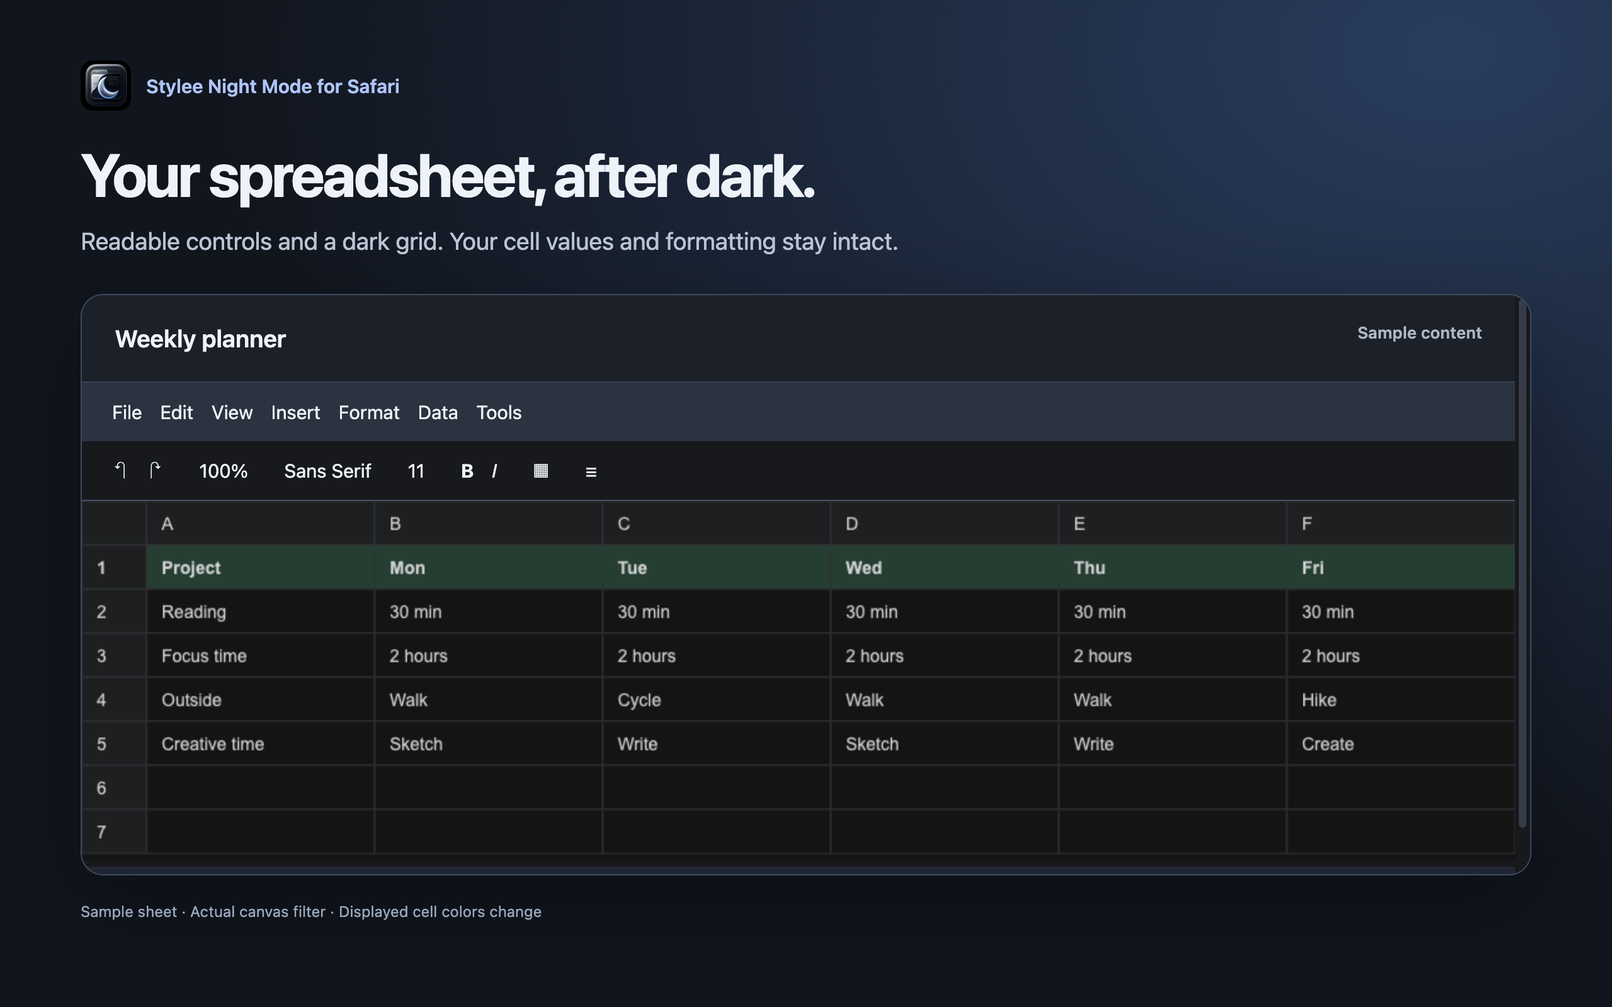
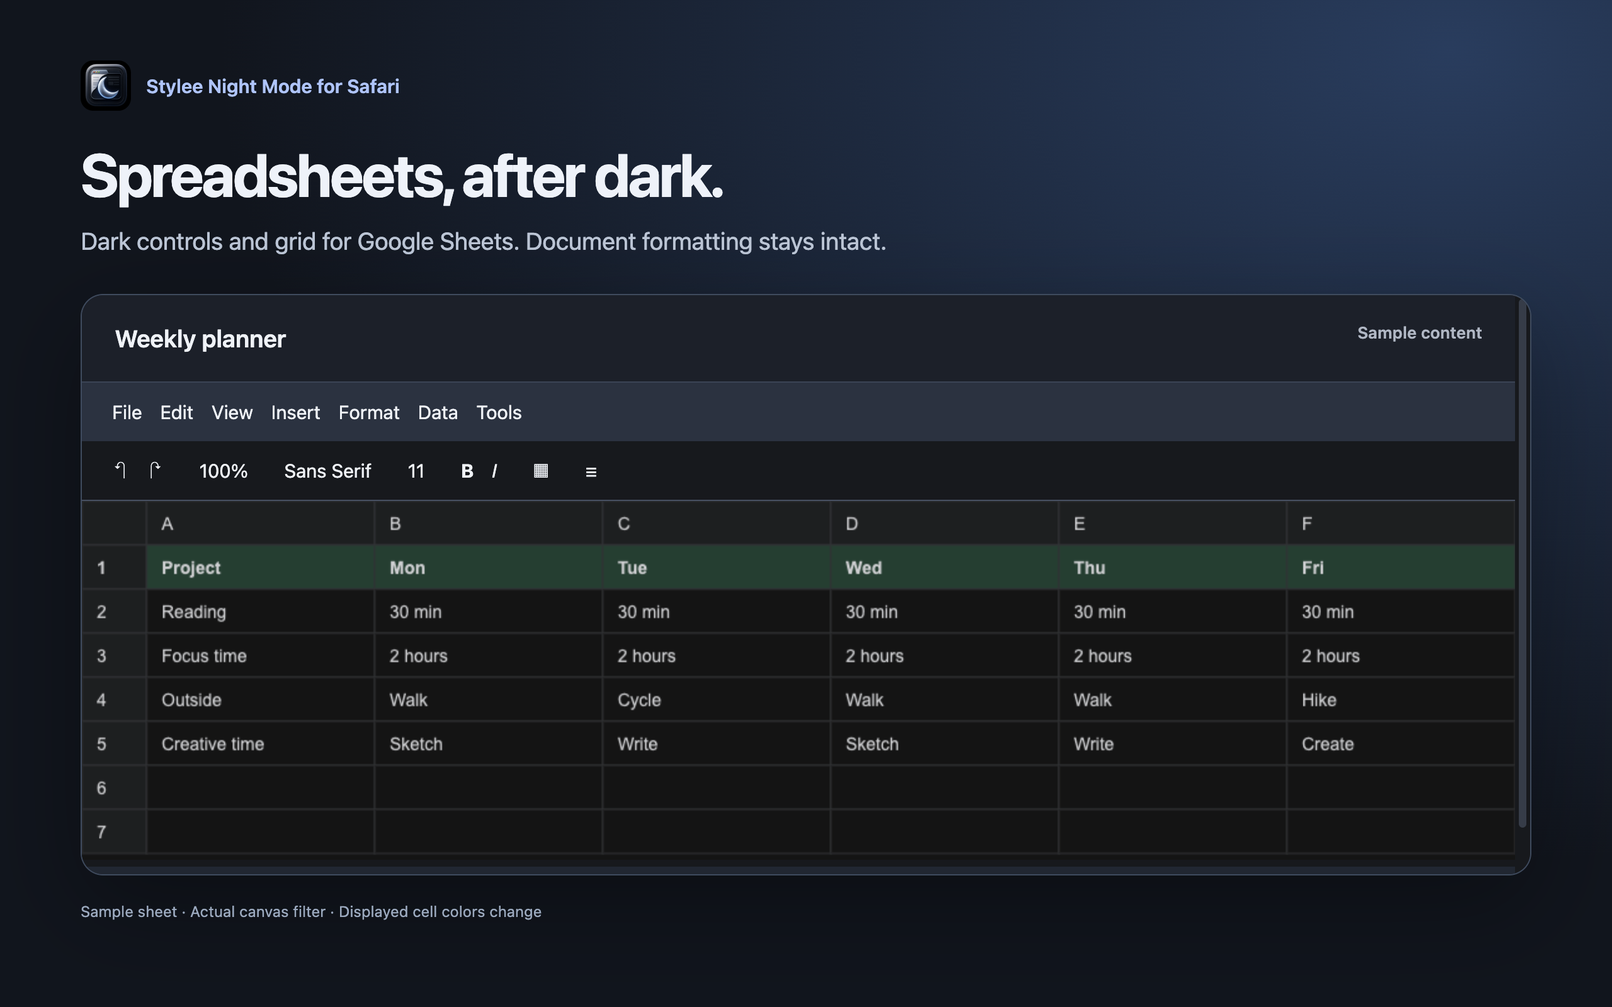
Align listing copy and assets with Stylee night mode positioning

Changed region(s): [[0.0312, 0.1562, 0.5625, 0.25]]

diff --git a/docs/store/preview.html b/docs/store/preview.html
@@ -2,28 +2,28 @@
 <style>*{box-sizing:border-box}body{margin:0;background:#10151e;color:#edf2fa;font-family:-apple-system,BlinkMacSystemFont,Arial,sans-serif}.page{padding:48px 64px;height:800px;background:radial-gradient(ellipse at 90% 5%,#233d60,transparent 60%)}.brand{display:flex;align-items:center;gap:12px;font-size:15px;font-weight:600;color:#a9c5ff}.brand img{width:40px;height:40px;border-radius:10px}h1{font-size:48px;line-height:1.1;letter-spacing:-1.8px;margin:24px 0 12px}p{color:#bac7d9;font-size:19px;line-height:1.5;margin:0}iframe{border:1px solid #3c4b60;border-radius:18px;width:100%;height:462px;margin-top:28px;background:#202733;box-shadow:0 25px 75px #0005}.caption{font-size:12px;color:#97a9c0;margin-top:16px}.split{display:grid;grid-template-columns:1fr 350px;gap:48px;align-items:center}.split iframe{height:500px;width:302px;justify-self:end}.split h1{font-size:60px}.bullet{margin-top:28px;font-size:20px;line-height:1.6;color:#c4d0e0}strong{color:#eff4fb}</style>
 <div class="page"><div class="brand"><img src="../../extension/icons/icon-128.png">Stylee Night Mode for Safari</div><div id="layout"><h1 id="headline"></h1><p id="subtitle"></p><iframe id="demo" title="Extension styling with sample content"></iframe><p class="caption" id="caption">Sample content · Rendered with the extension’s styles</p></div></div>
 <script>
-const view=new URLSearchParams(location.search).get('view')||'gmail';
+const view=new URLSearchParams(location.search).get('view')||'controls';
 const demo=document.querySelector('#demo');
 const header=(title)=>`<header style="padding:20px 26px;background:#1b202a;color:#eef2f7;border-bottom:1px solid #394456;font-size:19px;font-weight:600">${title}<span style="float:right;font-size:13px;color:#aeb7c5">Sample content</span></header>`;
 const doc=(css,body,script='')=>`<!doctype html><html data-sdm-product="${view==='sheets'?'sheets':'gmail'}"><base href="${new URL('../../extension/',location.href)}"><meta charset="utf-8"><link rel="stylesheet" href="base.css"><link rel="stylesheet" href="${css}.css"><style>*{box-sizing:border-box}body{margin:0;font:15px/1.5 -apple-system,BlinkMacSystemFont,Arial,sans-serif}button{font:inherit}a{color:#8ab4f8}</style>${body}<script>${script}<\/script></html>`;
 if(view==='gmail'){
- document.querySelector('#headline').textContent='A softer inbox. A clearer read.';
+ document.querySelector('#headline').textContent='A calmer inbox.';
  document.querySelector('#subtitle').textContent='Dark appearance across Gmail’s inbox, messages, and compose window.';
  const rows=[['Maya Chen','The weekend reading list','10:24 AM'],['Studio Notes','A new idea for your next project','9:10 AM'],['Alex Rivera','Coffee next week?','Yesterday'],['Team Updates','Your weekly roundup','Yesterday'],['Book Club','Our next chapter','Monday'],['Travel Notes','A little inspiration','Monday']].map((r,i)=>`<div class="zA" style="padding:19px 18px;border-bottom:1px solid #394456;display:grid;grid-template-columns:22px 100px 1fr 75px;gap:8px;font-size:13px"><span>☆</span><strong>${r[0]}</strong><span>${r[1]}</span><span style="font-size:11px">${r[2]}</span></div>`).join('');
  demo.srcdoc=doc('gmail',header('Inbox')+`<div style="display:grid;grid-template-columns:145px 48% 1fr;height:410px"><aside style="padding:24px 16px;background:#151922;color:#aeb7c5">✎ Compose<br><br><strong style="color:#eef2f7">Inbox</strong><br><br>Starred<br><br>Sent<br><br>Drafts<br><br>Labels<br><br>Reading</aside><section>${rows}</section><section style="padding:25px;border-left:1px solid #394456"><h3 style="margin-top:0">The weekend reading list</h3><p style="font-size:12px;color:#aeb7c5">Maya Chen · 10:24 AM</p><div class="a3s"><p>Hi Alex,</p><p>A few thoughtful reads for a slower weekend.</p><p>Start with the short essay on finding time for the things you enjoy.</p><p><a href="#">Open the reading list →</a></p><p>Enjoy your weekend,<br>Maya</p></div></section></div>`);
 } else if(view==='email'){
  document.querySelector('#headline').textContent='HTML emails, comfortably dark.';
- document.querySelector('#subtitle').textContent='Text and backgrounds adapt together. Your images keep their own colors.';
+ document.querySelector('#subtitle').textContent='Message colors adapt together. Photos keep their original appearance.';
  demo.srcdoc=doc('gmail',header('The Sunday Edit')+`<div class="a3s" style="padding:26px 54px;display:grid;grid-template-columns:1fr 1fr;gap:30px"><div style="background:#f8f6ee;color:#292f3c;border-radius:20px;padding:26px"><p style="letter-spacing:4px;font-size:12px">STUDIO NOTES</p><h2 style="font-size:34px;margin:14px 0">Make room for<br>a little inspiration.</h2><p>A collection of ideas for a more thoughtful week.</p><a style="display:inline-block;padding:10px 20px;border-radius:24px;background:#254c77;color:white" href="#">Read this week’s edit</a></div><div style="background:#fff;color:#202124;border-radius:20px;padding:26px"><h2>Three small things</h2><p>01 · Revisit a favorite book.</p><p>02 · Take the scenic route.</p><p>03 · Make something just for fun.</p><p style="color:#1255cc">See you next Sunday.</p></div></div>`);
  demo.onload=()=>{const s=demo.contentDocument.createElement('script');s.src='gmail-messages.js';s.onload=()=>demo.contentWindow.__safariDarkModeMessages.sync(true);demo.contentDocument.body.append(s)};
 } else if(view==='sheets'){
- document.querySelector('#headline').textContent='Your spreadsheet, after dark.';
- document.querySelector('#subtitle').textContent='Readable controls and a dark grid. Your cell values and formatting stay intact.';
+ document.querySelector('#headline').textContent='Spreadsheets, after dark.';
+ document.querySelector('#subtitle').textContent='Dark controls and grid for Google Sheets. Document formatting stays intact.';
  demo.srcdoc=doc('sheets',header('Weekly planner')+`<div style="padding:12px 24px;background:#293241;color:#eef2f7">File　Edit　View　Insert　Format　Data　Tools</div><div style="padding:12px 24px;border-bottom:1px solid #445064;color:#eef2f7">↶　↷　　100%　　Sans Serif　　11　　<b>B</b>　<i>I</i>　　▦　　≡</div><div class="grid-container"><div class="grid-table-container"><canvas id="grid" width="1150" height="285" style="width:100%;height:285px"></canvas></div></div><div style="background:#202733;padding:10px 24px;color:#a9c5ff">＋　　Weekly planner ▾　　 Notes ▾</div>`,`const c=document.querySelector('#grid'),x=c.getContext('2d');x.fillStyle='#fff';x.fillRect(0,0,1150,285);const rows=[['','A','B','C','D','E','F'],['1','Project','Mon','Tue','Wed','Thu','Fri'],['2','Reading','30 min','30 min','30 min','30 min','30 min'],['3','Focus time','2 hours','2 hours','2 hours','2 hours','2 hours'],['4','Outside','Walk','Cycle','Walk','Walk','Hike'],['5','Creative time','Sketch','Write','Sketch','Write','Create'],['6','','','','','',''],['7','','','','','','']];rows.forEach((r,ri)=>r.forEach((v,ci)=>{let w=ci?183:52,px=ci?52+(ci-1)*183:0,py=ri*35;x.fillStyle=ri===0||ci===0?'#f1f3f4':ri===1?'#b7ddcc':'#fff';x.fillRect(px,py,w,35);x.strokeStyle='#dadce0';x.strokeRect(px,py,w,35);x.fillStyle='#202124';x.font=(ri===1?'bold ':'')+'14px Arial';x.fillText(v,px+12,py+23)}));`);
  document.querySelector('#caption').textContent='Sample sheet · Actual canvas filter · Displayed cell colors change';
 } else {
  document.querySelector('#layout').className='split';
- document.querySelector('#layout').innerHTML='<div><h1>Your choice.<br>One click.</h1><p>A separate appearance setting for each supported Google product.</p><div class="bullet"><strong>On</strong> · Always dark<br><strong>Off</strong> · Website default<br><strong>System</strong> · Follow device</div><p class="caption">Actual toolbar controls · Preferences stay on your Mac</p></div><iframe id="popup" title="Appearance controls"></iframe>';
+ document.querySelector('#layout').innerHTML='<div><h1>Night mode.<br>Your way.</h1><p>Dark appearance for Gmail, Google Sheets, and Google Search. A separate choice for each website.</p><div class="bullet"><strong>On</strong> · Always dark<br><strong>Off</strong> · Website default<br><strong>System</strong> · Follow device</div><p class="caption">Actual toolbar controls · Preferences stay on your Mac</p></div><iframe id="popup" title="Appearance controls"></iframe>';
  fetch('../../extension/popup/popup.html').then(r=>r.text()).then(html=>{html=html.replace('<head>','<head><base href="'+new URL('../../extension/popup/',location.href)+'">');const mock=`<script>window.browser={runtime:{},tabs:{query:(o,c)=>c([{id:1,url:'https://mail.google.com/'}]),sendMessage:(i,m,o,c)=>c({product:'gmail',mode:'system'})},storage:{local:{get:(k,c)=>c({enabledBySite:{gmail:'system'}}),set:(d,c)=>c()}}};<\/script>`;html=html.replace('<script src="popup.js">',mock+'<script src="popup.js">');document.querySelector('#popup').srcdoc=html});
 }
 </script></html>

diff --git a/site/index.html b/site/index.html
@@ -1,2 +1,2 @@
 <!doctype html>
-<html lang="en"><meta charset="utf-8"><meta name="viewport" content="width=device-width,initial-scale=1"><title>Stylee Night Mode for Safari — Help & Support</title><meta name="description" content="Dark appearance for Gmail, Google Sheets, and Google Search in Safari. Setup, support, and privacy information."><link rel="stylesheet" href="style.css"><main><nav><a href="./">Help &amp; Support</a><a href="privacy.html">Privacy</a><a href="./#download">Download</a></nav><p class="eyebrow">For macOS · Free</p><h1>Stylee Night Mode<br>for Safari</h1><p>A softer appearance for Gmail, Google Sheets, and Google Search.</p><section id="download" class="card" aria-labelledby="download-title"><h2 id="download-title">Get the extension</h2><p>Free for Mac. The public download will be available after release.</p><!-- APP_STORE_DOWNLOAD: Replace the disabled button with an anchor using the verified live App Store URL at release. See docs/support-deployment.md. --><button class="download-button" type="button" disabled aria-describedby="download-status">Coming soon on the Mac App Store</button><p id="download-status">Not available to download yet. Check back here for the App Store link.</p></section><h2>Get started</h2><ol><li>Install the app from the Mac App Store and open it.</li><li>Click <strong>Open Safari Extension Settings</strong>. In Safari Settings → Extensions, enable <strong>Stylee Night Mode for Safari</strong>.</li><li>Allow website access for Gmail, Google Sheets, and Google Search. Safari may also request access to Google account/app-picker frames used inside these sites.</li><li>Reload any pages that were already open. Click the extension icon in Safari’s toolbar to choose an appearance.</li></ol><div class="card"><strong>On</strong> — Always dark.<br><strong>Off</strong> — Restore the website’s own appearance.<br><strong>System</strong> — Follow your Mac’s appearance setting.</div><p>Each supported product has its own choice. Off does not force a light theme. Preferences are stored on this Mac.</p><h2>What it changes</h2><p>Gmail’s inbox, message reading view, and compose window; Google Sheets’ controls and grid; and Google Search’s results and suggestions.</p><p>Message foreground and background colors are adjusted together. Photos and image-backed sections retain their original appearance. Some dark logos may remain dark. Sheets’ displayed colors change, while cell values and document formatting remain unchanged.</p><h2>Requirements</h2><p>macOS 26 or later and Safari 26 or later. This release supports these three Google products, not every website. A Google account is needed for Gmail and private spreadsheets.</p><h2>Troubleshooting</h2><p>If a page stays unchanged, check website access in Safari Settings → Extensions, then reload the page. If the toolbar popup cannot connect, try <strong>Retry connection</strong>, or open the site in a fresh tab. Use Off for a page whose original appearance you prefer.</p><p>To stop using the extension, disable it in Safari Settings → Extensions. Remove the containing app to uninstall it.</p><h2>Contact support</h2><p>Email <a href="mailto:hello@trystylee.com">hello@trystylee.com</a> with your macOS/Safari versions, the affected Google product, and steps to reproduce the issue. Please redact message contents, names, account details, and spreadsheet data from any screenshots.</p><footer>© 2026 Stylee, Inc. · <a href="mailto:hello@trystylee.com">hello@trystylee.com</a><p>Independent software. Not affiliated with or endorsed by Google or Apple. Gmail and Safari are trademarks of their respective owners.</p></footer></main></html>
+<html lang="en"><meta charset="utf-8"><meta name="viewport" content="width=device-width,initial-scale=1"><title>Stylee Night Mode for Safari — Help & Support</title><meta name="description" content="Stylee Night Mode for Safari: appearance controls for supported mail, spreadsheet, and search websites. Setup, support, and privacy."><link rel="stylesheet" href="style.css"><main><nav><a href="./">Help &amp; Support</a><a href="privacy.html">Privacy</a><a href="./#download">Download</a></nav><p class="eyebrow">For macOS · Free</p><h1>Stylee Night Mode<br>for Safari</h1><p>A calmer way to read, work, and search.</p><p>Choose dark appearance for Gmail, Google Sheets, and Google Search in Safari. Set each supported website to always dark, website default, or follow your Mac.</p><section id="download" class="card" aria-labelledby="download-title"><h2 id="download-title">Get the extension</h2><p>Free for Mac. The public download will be available after release.</p><!-- APP_STORE_DOWNLOAD: Replace the disabled button with an anchor using the verified live App Store URL at release. See docs/support-deployment.md. --><button class="download-button" type="button" disabled aria-describedby="download-status">Coming soon on the Mac App Store</button><p id="download-status">Not available to download yet. Check back here for the App Store link.</p></section><h2>Get started</h2><ol><li>Install the app from the Mac App Store and open it.</li><li>Click <strong>Open Safari Extension Settings</strong>. In Safari Settings → Extensions, enable <strong>Stylee Night Mode for Safari</strong>.</li><li>Allow website access for Gmail, Google Sheets, and Google Search. Safari may also request access to Google account/app-picker frames used inside these sites.</li><li>Reload any pages that were already open. Click the extension icon in Safari’s toolbar to choose an appearance.</li></ol><div class="card"><strong>On</strong> — Always dark.<br><strong>Off</strong> — Restore the website’s own appearance.<br><strong>System</strong> — Follow your Mac’s appearance setting.</div><p>Each supported product has its own choice. Off does not force a light theme. Preferences are stored on this Mac.</p><h2>Three supported websites</h2><p>Gmail’s inbox, message reading view, and compose window; Google Sheets’ controls and grid; and Google Search’s results and suggestions.</p><p>Message foreground and background colors are adjusted together. Photos and image-backed sections retain their original appearance. Some dark logos may remain dark. Sheets’ displayed colors change, while cell values and document formatting remain unchanged.</p><h2>Requirements</h2><p>macOS 26 or later and Safari 26 or later. This release supports these three Google products, not every website. A Google account is needed for Gmail and private spreadsheets.</p><h2>Troubleshooting</h2><p>If a page stays unchanged, check website access in Safari Settings → Extensions, then reload the page. If the toolbar popup cannot connect, try <strong>Retry connection</strong>, or open the site in a fresh tab. Use Off for a page whose original appearance you prefer.</p><p>To stop using the extension, disable it in Safari Settings → Extensions. Remove the containing app to uninstall it.</p><h2>Contact support</h2><p>Email <a href="mailto:hello@trystylee.com">hello@trystylee.com</a> with your macOS/Safari versions, the affected Google product, and steps to reproduce the issue. Please redact message contents, names, account details, and spreadsheet data from any screenshots.</p><footer>© 2026 Stylee, Inc. · <a href="mailto:hello@trystylee.com">hello@trystylee.com</a><p>Independent software. Not affiliated with or endorsed by Google or Apple. Gmail and Safari are trademarks of their respective owners.</p></footer></main></html>

diff --git a/site/privacy.html b/site/privacy.html
@@ -1,2 +1,2 @@
 <!doctype html>
-<html lang="en"><meta charset="utf-8"><meta name="viewport" content="width=device-width,initial-scale=1"><title>Privacy — Stylee Night Mode for Safari</title><meta name="description" content="Dark appearance for Gmail, Google Sheets, and Google Search in Safari. Setup, support, and privacy information."><link rel="stylesheet" href="style.css"><main><nav><a href="./">Help &amp; Support</a><a href="privacy.html">Privacy</a><a href="./#download">Download</a></nav><p class="eyebrow">Privacy policy · September 9, 2026</p><h1>Your browsing stays<br>on your Mac.</h1><p>Stylee Night Mode for Safari is provided by Stylee, Inc. This policy explains how the app, extension, and support website handle information.</p><h2>The app and extension</h2><p>The app and extension do not collect or transmit browsing history, email contents, spreadsheet data, account details, analytics, or diagnostics. They do not include advertising, trackers, or remote executable code.</p><p>The extension works locally. It inspects page elements and their computed colors to change appearance. Gmail message text is not recorded or sent anywhere. Images and image-backed sections keep their original appearance.</p><h2>Preferences</h2><p>Your appearance choices are stored in Safari extension-local storage on this device. They are not sent to us or synced through a service operated by us. Choosing Off restores the website’s appearance. Uninstalling the app/extension removes the extension; Safari manages removal of its local data.</p><h2>Website permissions</h2><p>Access to Gmail, Google Sheets, and Google Search allows the extension to apply styles. Access to embedded Google account/app-picker frames is used only for supported pages. Standalone Google account pages are not restyled. The extension does not change your account, send mail, or edit spreadsheet values.</p><h2>This support website</h2><p>This static site uses no analytics, cookies, or tracking scripts. It is hosted on GitHub Pages. GitHub may process technical request information, such as IP addresses, under <a href="https://docs.github.com/en/site-policy/privacy-policies/github-general-privacy-statement">GitHub’s privacy statement</a>.</p><h2>When you contact us</h2><p>If you email support, we receive your email address and whatever you choose to include. We use that information to answer your request and investigate the issue. Please avoid sending private mailbox or spreadsheet contents. You may request deletion of support correspondence by emailing us.</p><h2>Other websites and services</h2><p>Google services and Apple’s App Store operate under their own privacy policies. This extension does not change those services’ data practices.</p><h2>Changes and contact</h2><p>We will update this page if our practices change. Questions or deletion requests: <a href="mailto:hello@trystylee.com">hello@trystylee.com</a>.</p><footer>© 2026 Stylee, Inc. · <a href="mailto:hello@trystylee.com">hello@trystylee.com</a><p>Independent software. Not affiliated with or endorsed by Google or Apple. Gmail and Safari are trademarks of their respective owners.</p></footer></main></html>
+<html lang="en"><meta charset="utf-8"><meta name="viewport" content="width=device-width,initial-scale=1"><title>Privacy — Stylee Night Mode for Safari</title><meta name="description" content="Stylee Night Mode for Safari: appearance controls for supported mail, spreadsheet, and search websites. Setup, support, and privacy."><link rel="stylesheet" href="style.css"><main><nav><a href="./">Help &amp; Support</a><a href="privacy.html">Privacy</a><a href="./#download">Download</a></nav><p class="eyebrow">Privacy policy · September 9, 2026</p><h1>Your browsing stays<br>on your Mac.</h1><p>Stylee Night Mode for Safari is provided by Stylee, Inc. This policy explains how the app, extension, and support website handle information.</p><h2>The app and extension</h2><p>The app and extension do not collect or transmit browsing history, email contents, spreadsheet data, account details, analytics, or diagnostics. They do not include advertising, trackers, or remote executable code.</p><p>The extension works locally. It inspects page elements and their computed colors to change appearance. Gmail message text is not recorded or sent anywhere. Images and image-backed sections keep their original appearance.</p><h2>Preferences</h2><p>Your appearance choices are stored in Safari extension-local storage on this device. They are not sent to us or synced through a service operated by us. Choosing Off restores the website’s appearance. Uninstalling the app/extension removes the extension; Safari manages removal of its local data.</p><h2>Website permissions</h2><p>Access to Gmail, Google Sheets, and Google Search allows the extension to apply styles. Access to embedded Google account/app-picker frames is used only for supported pages. Standalone Google account pages are not restyled. The extension does not change your account, send mail, or edit spreadsheet values.</p><h2>This support website</h2><p>This static site uses no analytics, cookies, or tracking scripts. It is hosted on GitHub Pages. GitHub may process technical request information, such as IP addresses, under <a href="https://docs.github.com/en/site-policy/privacy-policies/github-general-privacy-statement">GitHub’s privacy statement</a>.</p><h2>When you contact us</h2><p>If you email support, we receive your email address and whatever you choose to include. We use that information to answer your request and investigate the issue. Please avoid sending private mailbox or spreadsheet contents. You may request deletion of support correspondence by emailing us.</p><h2>Other websites and services</h2><p>Google services and Apple’s App Store operate under their own privacy policies. This extension does not change those services’ data practices.</p><h2>Changes and contact</h2><p>We will update this page if our practices change. Questions or deletion requests: <a href="mailto:hello@trystylee.com">hello@trystylee.com</a>.</p><footer>© 2026 Stylee, Inc. · <a href="mailto:hello@trystylee.com">hello@trystylee.com</a><p>Independent software. Not affiliated with or endorsed by Google or Apple. Gmail and Safari are trademarks of their respective owners.</p></footer></main></html>

diff --git a/docs/app-store-release-plan.md b/docs/app-store-release-plan.md
@@ -4,6 +4,15 @@ Updated 20 September 2026. Submitted build: **1.0.0 (22)** — **REJECTED**; rev
 
 ## Current remaining work
 
+Listing positioning update, 20 September 2026: the description and promotional
+text now lead with Stylee and per-website appearance controls, with Gmail, Google
+Sheets, and Google Search identified as supported websites. Keywords use generic
+feature terms. Four refreshed listing images are uploaded in the order recorded
+in `docs/store/metadata.json`, with the controls image first. Support copy matches
+this positioning. Metadata limits, image dimensions, screenshot order, and mobile
+support-page layout were checked. This listing update changes no extension code
+and does not resubmit or release the app.
+
 Naming update, 20 September 2026: the owner replied to App Review asking for
 clarification. Pending that response, remove Gmail from the public app/extension
 name and remove Google product branding from the subtitle, retaining "for Safari".

diff --git a/README.md b/README.md
@@ -1,6 +1,6 @@
 # Stylee Night Mode for Safari
 
-Safari Web Extension that applies a focused dark theme to:
+A Safari Web Extension from Stylee with per-website appearance controls for:
 
 - Gmail (`https://mail.google.com/*`)
 - Google Sheets (the `https://docs.google.com/spreadsheets` home page and all paths beneath it)
